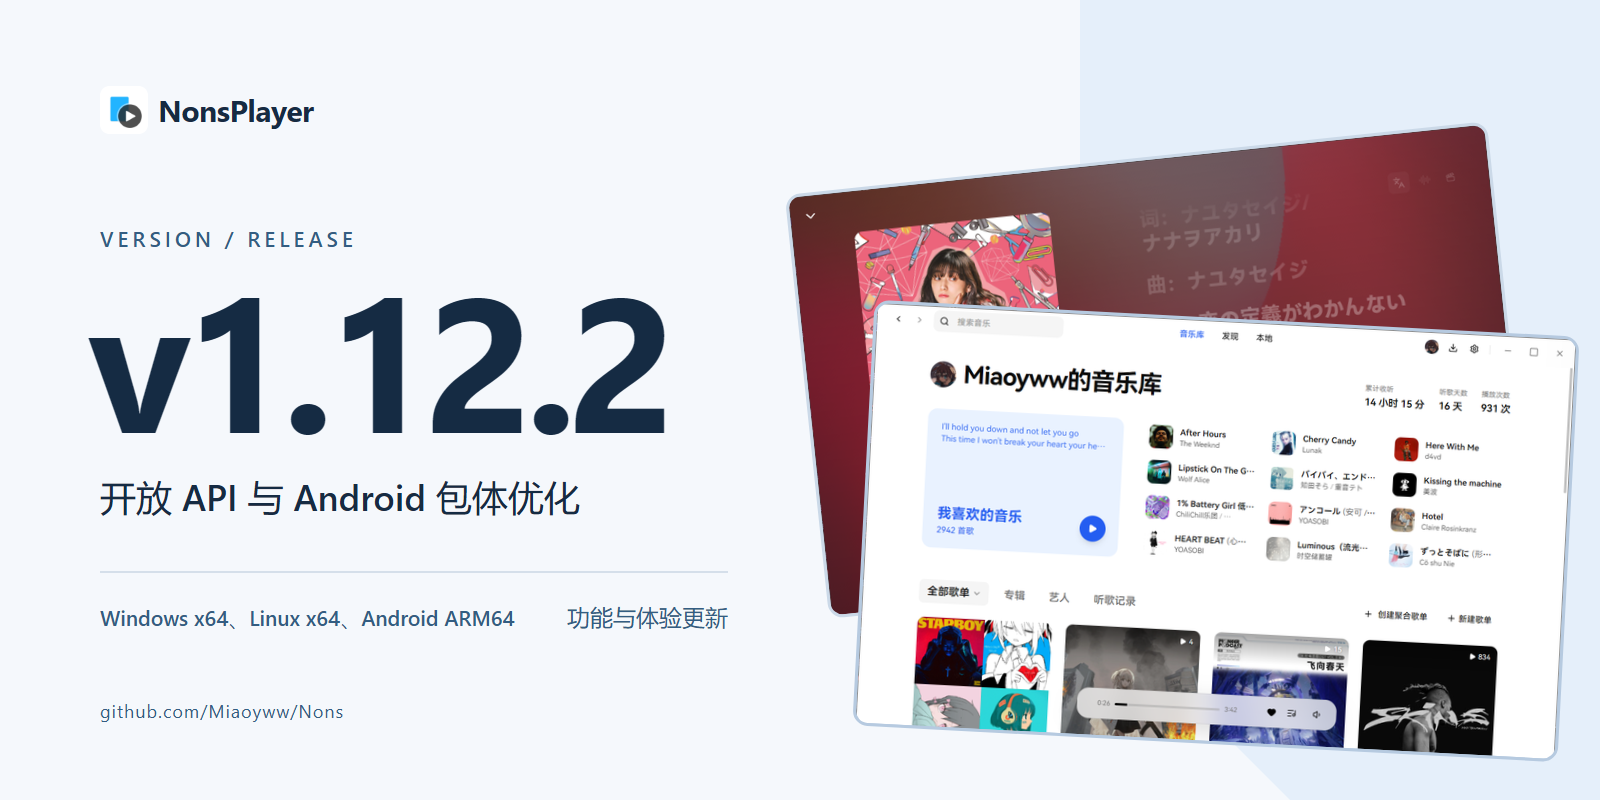
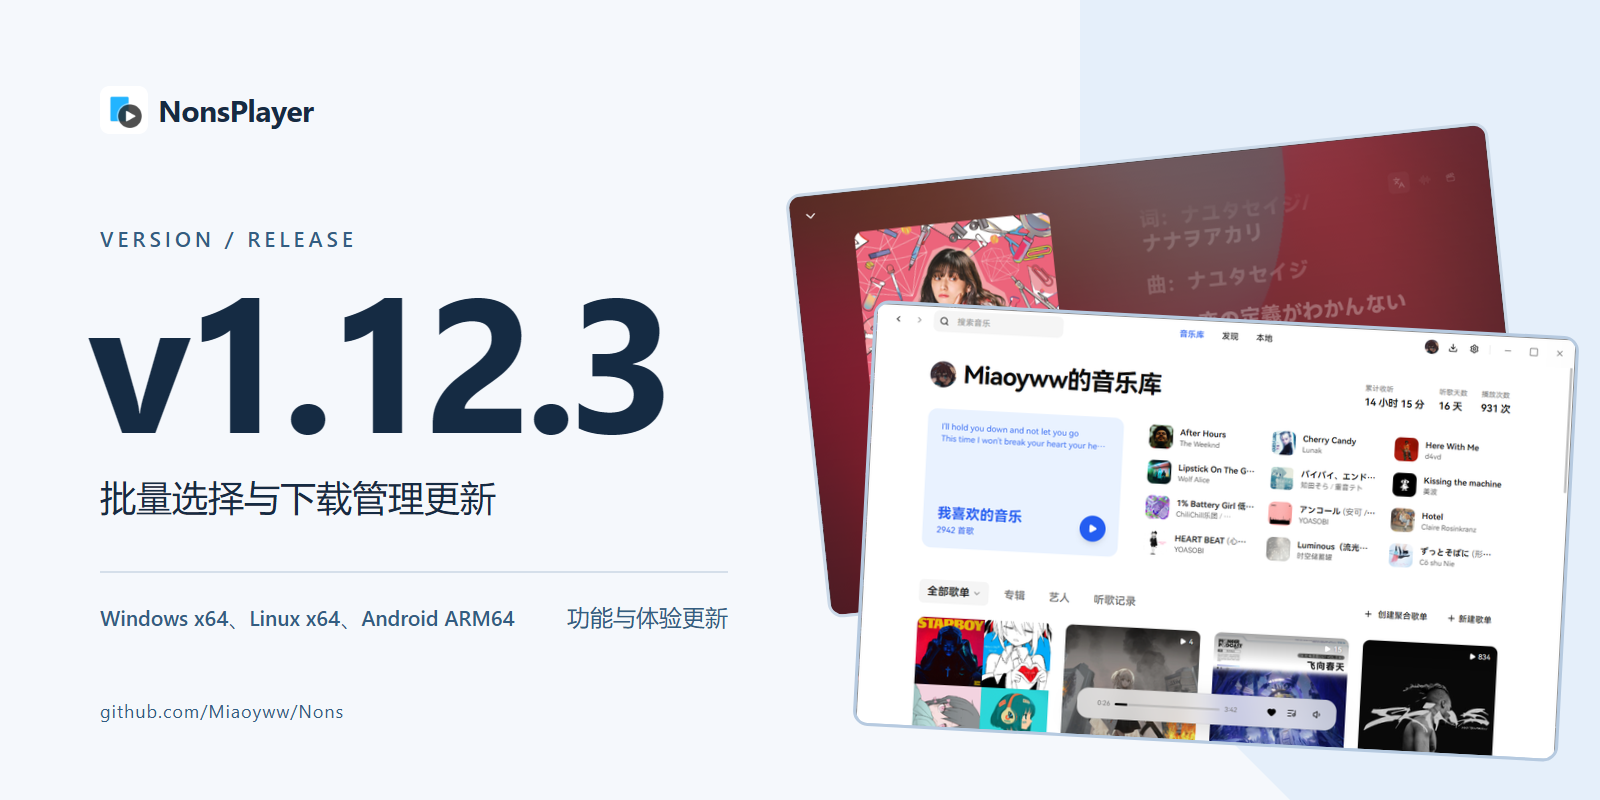
chore(release): 发布 1.12.3

Changed region(s): [[0.0625, 0.5938, 0.375, 0.6562], [0.3438, 0.4062, 0.4375, 0.5625]]

diff --git a/docs/release-assets/editor.html b/docs/release-assets/editor.html
@@ -101,11 +101,11 @@
       <div class="controls">
         <label>
           版本号
-          <input id="edit-version" value="v1.12.2" maxlength="12" />
+          <input id="edit-version" value="v1.12.3" maxlength="12" />
         </label>
         <label>
           副标题
-          <input id="edit-subtitle" value="开放 API 与 Android 包体优化" maxlength="28" />
+          <input id="edit-subtitle" value="批量选择与下载管理更新" maxlength="28" />
         </label>
         <label>
           平台
@@ -125,9 +125,9 @@
           role="img"
           aria-labelledby="title desc"
         >
-          <title id="title">NonsPlayer v1.12.2 发布头图</title>
+          <title id="title">NonsPlayer v1.12.3 发布头图</title>
           <desc id="desc">
-            蓝白扁平设计，v1.12.2，开放 API 与 Android 包体优化，Windows x64、Linux x64、Android
+            蓝白扁平设计，v1.12.3，批量选择与下载管理更新，Windows x64、Linux x64、Android
             ARM64，功能与体验更新
           </desc>
           <rect width="1600" height="800" fill="#F5F8FC" />
@@ -165,10 +165,10 @@
               font-weight="700"
               letter-spacing="-9"
             >
-              v1.12.2
+              v1.12.3
             </text>
             <text id="subtitle" x="100" y="511" fill="#152B43" font-size="36" font-weight="500">
-              开放 API 与 Android 包体优化
+              批量选择与下载管理更新
             </text>
             <path d="M100 572H728" stroke="#D5DFEA" stroke-width="2" />
             <text id="platform" x="100" y="626" fill="#335D82" font-size="21" font-weight="500">

diff --git a/CHANGELOG.md b/CHANGELOG.md
@@ -4,6 +4,12 @@
 
 ## [Unreleased]
 
+## [1.12.3] - 2026-11-09
+
+![NonsPlayer v1.12.3 批量选择与下载管理更新头图](https://raw.githubusercontent.com/Miaoyww/Nons/v1.12.3/docs/release-assets/header.png)
+
+NonsPlayer 1.12.3 批量选择与下载管理更新。本次 Release 提供 **Windows x64、Linux x64、Android ARM64** 构建附件：Windows 提供 MSI、EXE 安装包与免安装便携 ZIP，Linux 提供 AppImage 与 deb，Android 提供 ARM64 试用 APK。
+
 ### 音乐库与发现
 
 - 聚合歌单、普通歌单、本地歌单、专辑、艺术家及每日推荐统一支持歌曲批量选择，新增反选、添加到歌单和添加到播放列表；聚合歌单保留移动选曲等专属操作。
